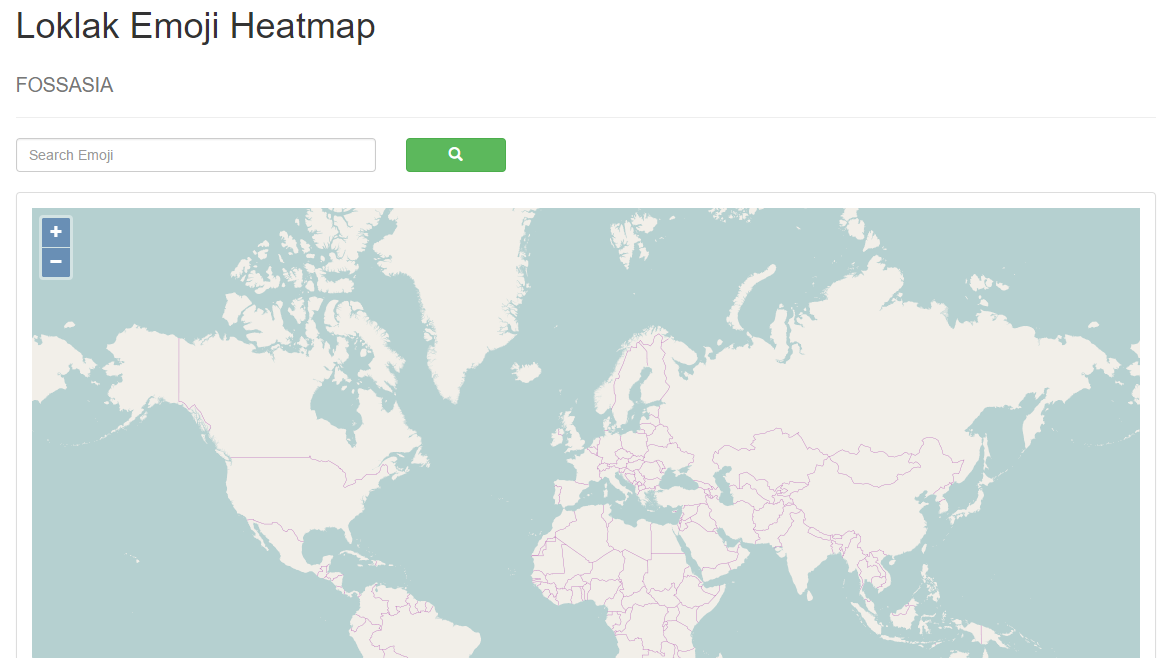
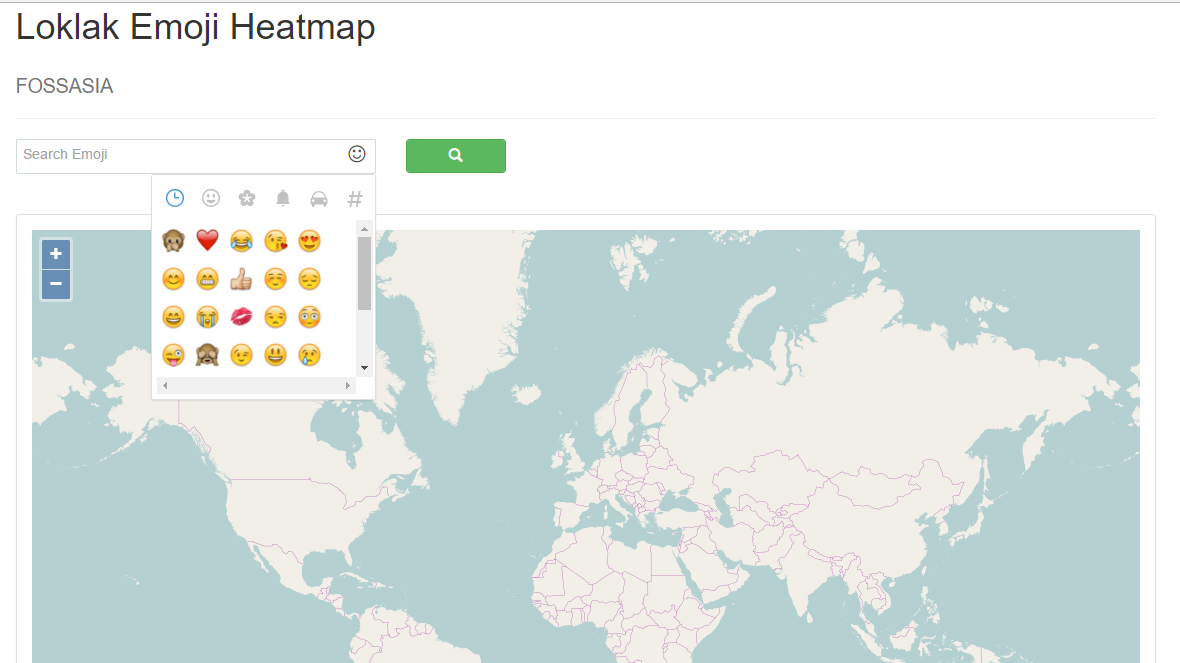
info

diff --git a/emojiHeatmapper/getStarted.md b/emojiHeatmapper/getStarted.md
@@ -1,13 +1,15 @@
 #### emojiHeatmapper app gives us data about usage of emoticons on twitter.
 
-The app visualises the collected location information from tweets as points
-on a **map**.
+The app visualises the collected emoji posts location information from tweets by
+rendering the emoji on a **map**, here the emoji getting rendered on the map is
+the search query.
 
 #### How to use the app
 
-On launching the app the user is presented with the search bar and an empty
-map. When the user enters the emoji in the search bar, then points appears on
-the map according to the location tracked from the tweets. If in case instead of
-emoji if the user enters text, then an alert message gets popped up.
+On launching the app the user is presented with the search bar, an emoji icon which
+displays list of emojis and an empty map. When the user enters the emoji in the
+search bar or selects one from the list, then the emoji i.e., the search query entered
+by the user appears on the map according to the location tracked from the tweets. If in
+case instead of emoji if the user enters text, then an alert message gets popped up.
 
 The users can also zoom in the map to find the exact location of the tweet post.
